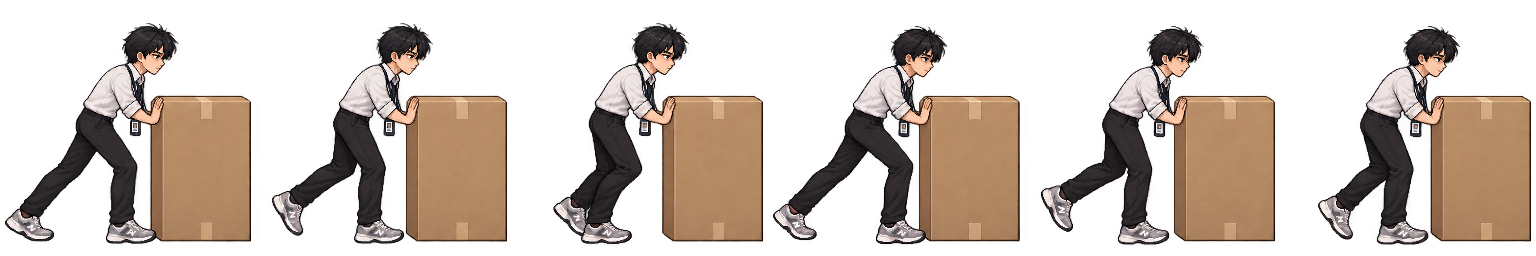
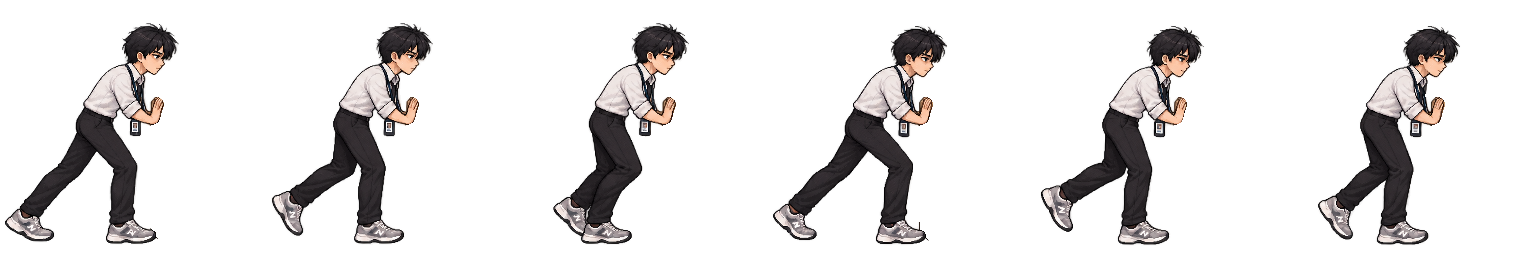
밀기

diff --git a/assets/player/PUSH-BOX-PROMPT.md b/assets/player/PUSH-BOX-PROMPT.md
@@ -1,8 +1,9 @@
 # 정수호 박스 밀기 애니메이션
 
 - 생성: 내장 image_gen. 기존 `jeong-suho.png`를 정수호 외형 참조로 사용.
-- 오른쪽을 향해 두 손으로 박스를 미는 6프레임 반복 동작. 박스가 이미지에 포함되어 있다.
-- `jeong-suho-push-box-source.png`: 생성 원본, 1536×1024 RGBA PNG, 3열×2행.
+- 오른쪽을 향해 두 손으로 미는 6프레임 반복 동작. 박스는 제외했으며 16층의 별도 박스 오브젝트와 함께 사용할 캐릭터 시트이다.
+- `jeong-suho-push-box-source.png`: 박스가 포함된 최초 생성 원본 보관, 1536×1024 RGBA PNG, 3열×2행.
+- `jeong-suho-push-no-box-source.png`: 박스를 제거한 재생성용 원본, 1536×256 RGBA PNG, 6열×1행.
 - `jeong-suho-push-box.png`: 게임용 시트, 1536×256 RGBA PNG, 6열×1행. 프레임당 256×256.
 - `jeong-suho-push-box.json`: 프레임 좌표, 재생 시간, 정렬 정보.
 - `../../docs/previews/suho-push-box.gif`: 6프레임 반복 미리보기, 프레임당 130ms, 한 주기 780ms.
@@ -10,17 +11,25 @@
 
 ## 사용 및 정렬
 
-원본을 512×512 셀로 나누고 각 프레임 전체를 평행이동해 박스 우측 경계와 밑면을 원본 좌표 (500, 480)에 맞춘 후 최근접 보간으로 256×256으로 축소했다. 알파 채널은 유지했다. 프레임별 이동량은 JSON에 기록했다. 미세한 신체 흔들림은 유지되므로 모든 발의 픽셀이 완전히 같은 높이는 아니다.
+최초 시트의 캐릭터 위치와 크기를 유지하면서 박스 영역을 투명하게 지웠다. 재생성 스크립트는 박스 없는 원본을 256×256 셀로 나누어 PNG, JSON, GIF를 만든다. 박스를 기준으로 재정렬하지 않는다. 미세한 신체 흔들림은 유지되므로 모든 발의 픽셀이 완전히 같은 높이는 아니다. JSON의 `includesBox`는 `false`이며 박스 정렬용 `boxAnchor`는 제거했다.
 
 PNG 프레임 순서는 왼쪽부터 0~5이다. `x = frameIndex * 256`, `y = 0`, `width = height = 256`으로 읽는다. 130ms마다 프레임을 바꾸며 반복한다. 왼쪽 방향은 렌더링 시 가로 반전한다.
 
-발 기준선은 셀 y≈244이다. 기존의 세계 바닥 y=570에 배치할 때 셀 표시 크기를 S라고 하면 셀 상단은 `570 - 244 * S / 256`이다. 예를 들어 S=192면 상단 y=387이다. 박스는 캐릭터와 함께 들어 있는 연출용 시트이므로 별도 박스 오브젝트를 같은 위치에 중복 렌더링하지 않는다. 게임의 밀기 입력, 충돌 처리, 애니메이션 상태 전환은 아직 연결하지 않았으며 이 커밋은 아트 에셋 추가이다.
+발 기준선은 셀 y≈244이다. 기존의 세계 바닥 y=570에 배치할 때 셀 표시 크기를 S라고 하면 셀 상단은 `570 - 244 * S / 256`이다. 예를 들어 S=192면 상단 y=387이다. 박스는 별도 게임 오브젝트로 렌더링한다. 손끝은 대략 셀 x=163, y=110에 있으므로 실제 박스의 왼쪽 면에 맞춘다. 게임의 밀기 입력, 충돌 처리, 애니메이션 상태 전환은 아직 연결하지 않았으며 이번 변경은 아트 에셋 편집이다.
 
 ## 검증
 
 - PNG 크기와 6개 정사각형 셀 확인.
 - 실제 알파 채널을 다른 배경 위에 합성해 투명 영역 확인.
 - GIF 6프레임, 무한 반복, 프레임별 130ms 확인.
+
+## 박스 제거 편집
+
+내장 image_gen으로 아래 프롬프트를 사용했다. 생성 결과에서 캔버스와 인물 위치가 달라져, 최종본은 기존 시트의 캐릭터 픽셀을 복원하고 박스 영역의 알파를 제거해 정렬을 유지했다. 손 주변과 신발 옆 잔여물은 제거했으며, 최초 생성 원본은 보존했다.
+
+```text
+Use case: precise-object-edit. Edit target: the attached 1536x256 RGBA game sprite sheet, exactly six 256x256 cells in one horizontal row. Remove ONLY all six cardboard boxes and their outlines/shadows, replacing those pixels with true transparent alpha. Keep every existing character pixel, identity, pose, hands, fingers, outfit, badge, leg motion, scale, original absolute position and frame spacing as unchanged as possible. All six men remain leaning forward with raised palms pushing an invisible object, facing right. Preserve the six distinct animation poses. Do not center or resize characters after removing the boxes: the now empty right part of each 256x256 cell must stay empty. Preserve full canvas 1536x256 and exact six-cell layout. No new objects, no visible box remnants, no background, no floor, no text, no glow. Crisp original anime pixel-art game sprite, transparent background. Asset intended for pushing a separate box object on floor 16 of ARCHI.
+```
 
 ## 최초 생성 프롬프트
 
